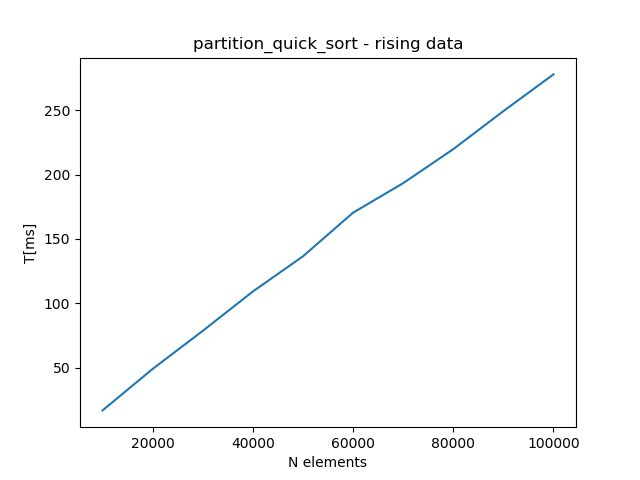
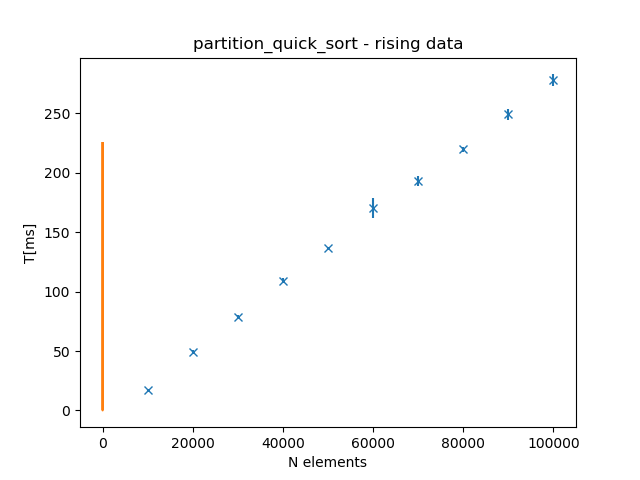
Standardavvikelse visas

diff --git a/Labb2/plot.py b/Labb2/plot.py
@@ -1,6 +1,7 @@
 #!/usr/bin/env python
 
 import matplotlib.pyplot as plt
+import numpy as np
 
 sorts = ["insertion_sort", "selection_sort", "median_quick_sort", "partition_quick_sort", "std_sort"]
 data_formats = ["random", "constant", "falling", "rising"]
@@ -17,14 +18,16 @@ for sort in sorts:
 
         N_arr = []
         T_arr = []
+        stdDev_arr = []
 
         for line in lines:
             data = line.split()
             N_arr.append(int(data[0]))
             T_arr.append(float(data[1]))
+            stdDev_arr.append(float(data[2]))
 
         plt.clf()
-        plt.plot(N_arr, T_arr)
+        plt.errorbar(N_arr, T_arr, stdDev_arr, linestyle='None', marker='x')
         plt.ylabel("T[ms]")
         plt.xlabel("N elements")
 
@@ -33,8 +36,6 @@ for sort in sorts:
 
         export_path = "graphs/" + sort + "/" + data_format + ".png"
         plt.savefig(export_path)
-
-
 
         #plt.show()
 
